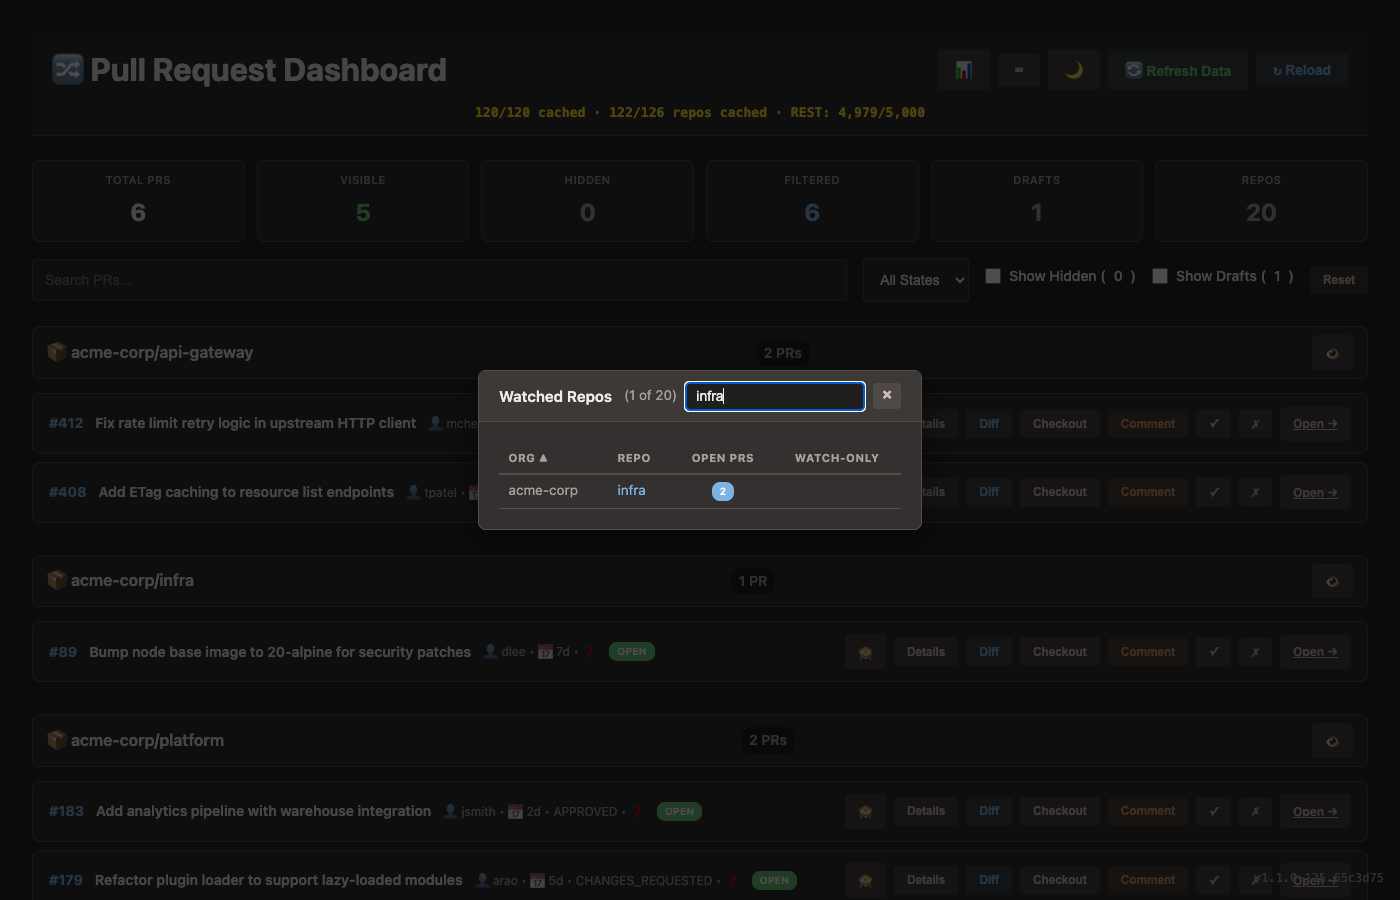
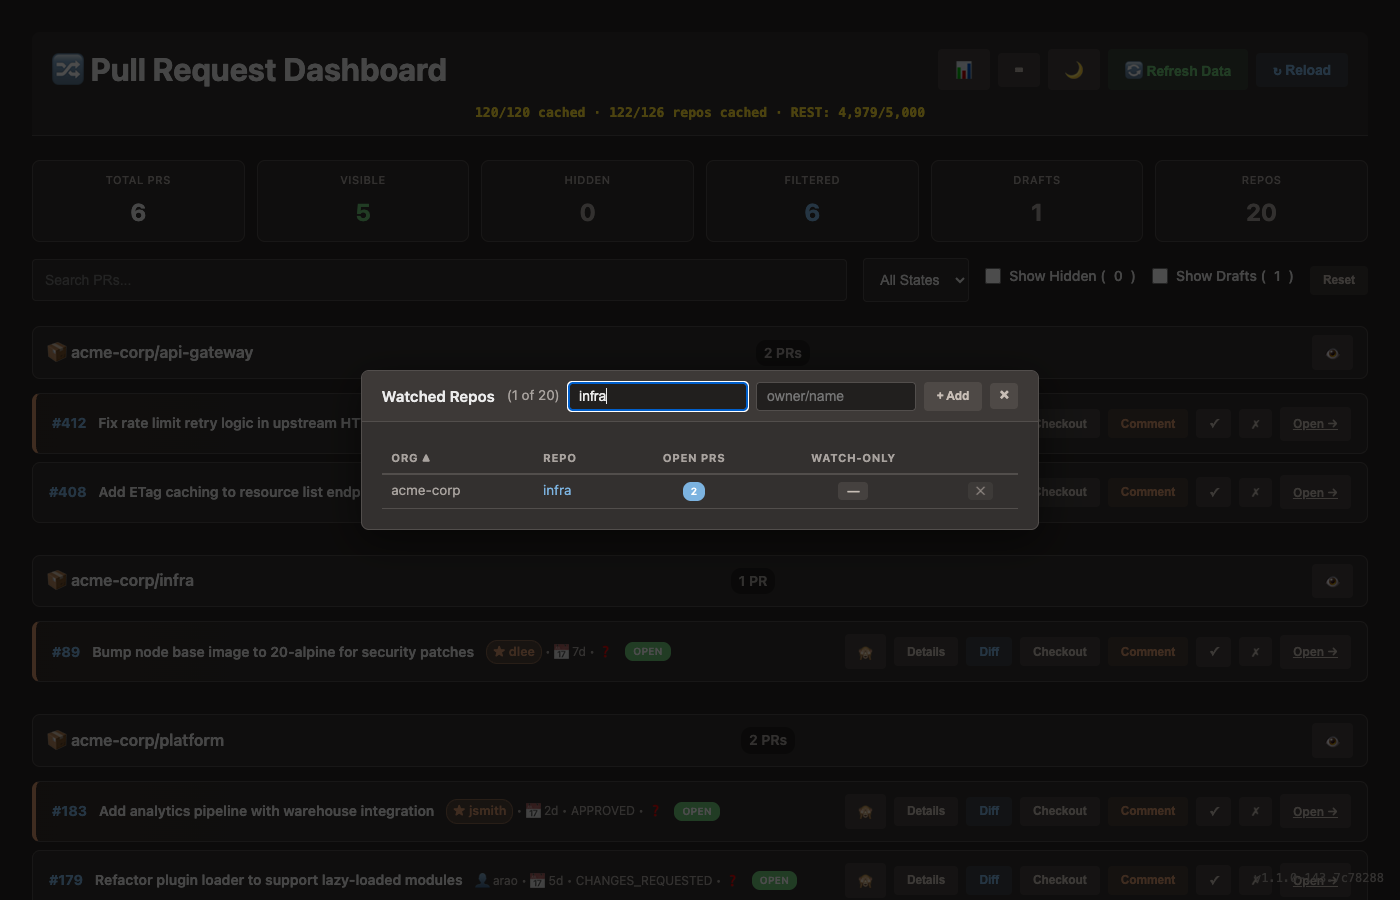
Document team member highlighting; update screenshots and screenshot script

diff --git a/scripts/screenshot.js b/scripts/screenshot.js
@@ -93,9 +93,11 @@ const FAKE_PERF = {
   rateInfo: { listHits: 122, listMisses: 4, rest: { remaining: 4979, limit: 5000 } },
 };
 
+const FAKE_TEAM = ['jsmith', 'mchen', 'dlee'];
+
 async function injectFakeData(page) {
   // evaluateOnNewDocument runs before any page scripts, surviving page.goto()
-  await page.evaluateOnNewDocument((prs, repos, perf) => {
+  await page.evaluateOnNewDocument((prs, repos, perf, team) => {
     const origFetch = window.fetch.bind(window);
     window.fetch = async (url, opts) => {
       if (url === '/api/prs' || url.startsWith('/api/prs?')) {
@@ -111,9 +113,14 @@ async function injectFakeData(page) {
           headers: { 'Content-Type': 'application/json' },
         });
       }
+      if (url === '/api/team-members') {
+        return new Response(JSON.stringify({ success: true, members: team }), {
+          headers: { 'Content-Type': 'application/json' },
+        });
+      }
       return origFetch(url, opts);
     };
-  }, FAKE_PRS, FAKE_REPOS, FAKE_PERF);
+  }, FAKE_PRS, FAKE_REPOS, FAKE_PERF, FAKE_TEAM);
 }
 
 async function wait(ms) {

diff --git a/README.md b/README.md
@@ -63,6 +63,7 @@ Press `?` or click the `⌨` button in the header to open the reference modal.
 - **Hide/unhide PRs** -- reduce clutter without losing context; persisted in localStorage
 - **Watch-only repos** -- mark repos as view-only to suppress review actions; toggle per-repo from the watched repos modal
 - **Repo management** -- add or remove watched repos directly from the UI without editing config files
+- **Team member highlighting** -- PRs authored by members of a configured GitHub team get an amber left border and a star-prefixed author badge in both the card list and diff modal header; team roster is fetched from GitHub and cached for 10 minutes
 - **Search & filter** -- by keyword, PR state (Open/Closed/Merged), hidden status, or draft status
 - **Statistics bar** -- real-time counts for Total, Visible, Hidden, Filtered, Drafts, and Repos (clickable)
 
@@ -305,6 +306,7 @@ browser GET /api/prs
 |--------|------|-------------|
 | GET | `/api/prs` | All PRs with review status and perf metadata |
 | GET | `/api/user` | Current authenticated GitHub user |
+| GET | `/api/team-members` | Members of the configured GitHub team (10-min cache) |
 | GET | `/api/repos` | Subscribed repo list |
 | POST | `/api/repos` | Add a repo (`{ repo: "owner/name" }`) to config.yaml |
 | DELETE | `/api/repos/:owner/:name` | Remove a repo from config.yaml |
